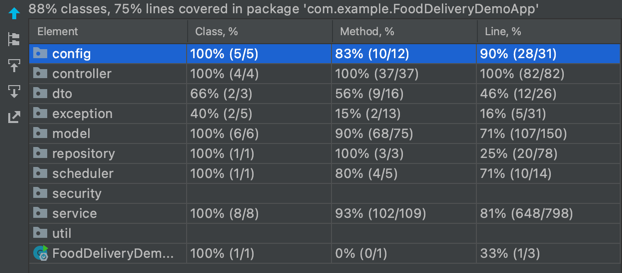
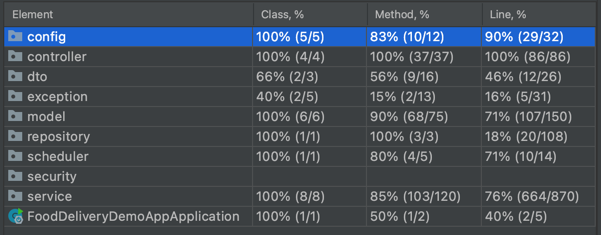
some fixes

diff --git a/src/main/java/com/example/FoodDeliveryDemoApp/service/weatherData/WeatherDataServiceImpl.java b/src/main/java/com/example/FoodDeliveryDemoApp/service/weatherData/WeatherDataServiceImpl.java
@@ -199,26 +199,52 @@ public class WeatherDataServiceImpl implements WeatherDataService {
         }
 
         if (previousWeatherData.isEmpty()) {
-            return nextWeatherData.get();
+            WeatherData nextWeatherD = nextWeatherData.get();
+            checkDurationBetween(dt, nextWeatherD.getTimestamp());
+            return nextWeatherD;
         } else if (nextWeatherData.isEmpty()) {
-            return previousWeatherData.get();
+            WeatherData previousWeatherD = previousWeatherData.get();
+            checkDurationBetween(dt, previousWeatherD.getTimestamp());
+            return previousWeatherD;
         } else {
             Instant previousTimestamp = previousWeatherData.get().getTimestamp();
             Instant nextTimestamp = nextWeatherData.get().getTimestamp();
 
             if (isDurationTooFar(Duration.between(previousTimestamp, dt))) {
                 throw new CustomBadRequestException(
-                        String.format("Weather data with closest datetime to given datetime is too far: %s",
-                                Duration.between(previousTimestamp, dt)));
+                        String.format("Weather data with closest datetime to given datetime is too far: %s (in hours)",
+                                Duration.between(previousTimestamp, dt).toHours()));
             }
             if (isDurationTooFar(Duration.between(nextTimestamp, dt))) {
                 throw new CustomBadRequestException(
-                        String.format("Weather data with closest datetime to given datetime is too far: %s",
-                                Duration.between(nextTimestamp, dt)));
+                        String.format("Weather data with closest datetime to given datetime is too far: %s (in hours)",
+                                Duration.between(nextTimestamp, dt).toHours()));
             }
             return Duration.between(previousTimestamp, dt).compareTo(Duration.between(nextTimestamp, dt)) <= 0
                     ? previousWeatherData.get()
                     : nextWeatherData.get();
+        }
+    }
+
+    /**
+     * Checks the duration between two timestamps and returns the second timestamp if the difference
+     * between them is less than one hour
+     *
+     * @param timestamp1 the first timestamp
+     * @param timestamp2 the second timestamp
+     * @return the second timestamp if the duration between them is less than one hour
+     * @throws CustomBadRequestException if the duration between the timestamps is greater than or equal to one hour
+     * and provides an error message with the duration between them
+     */
+    @SuppressWarnings("UnusedReturnValue")
+    private Instant checkDurationBetween(Instant timestamp1, Instant timestamp2) {
+        Duration duration = Duration.between(timestamp1, timestamp2);
+        if (duration.compareTo(Duration.ofHours(1)) < 0) {
+            return timestamp2;
+        } else {
+            throw new CustomBadRequestException(
+                    String.format("Weather data with closest datetime to given datetime is too far: %s (in hours)",
+                            Duration.between(timestamp1, timestamp2).toHours()));
         }
     }
 

diff --git a/src/main/java/com/example/FoodDeliveryDemoApp/repository/rules/ExtraFeeAirTemperatureRuleRepository.java b/src/main/java/com/example/FoodDeliveryDemoApp/repository/rules/ExtraFeeAirTemperatureRuleRepository.java
@@ -15,6 +15,15 @@ public interface ExtraFeeAirTemperatureRuleRepository extends JpaRepository<Extr
             "AND w.endAirTemperatureRange >= :startTemperatureRange")
     Long countOverlappingRanges(Double startTemperatureRange, Double endTemperatureRange);
 
+    @Query("SELECT COUNT(w) FROM ExtraFeeAirTemperatureRule w " +
+            "WHERE (" +
+            "(w.startAirTemperatureRange <= :startTemperatureRange " +
+            "AND w.endAirTemperatureRange >= :endTemperatureRange) " +
+            "OR " +
+            "(w.startAirTemperatureRange >= :startTemperatureRange " +
+            "AND w.endAirTemperatureRange <= :endTemperatureRange))")
+    Long countInsideRange(Double startTemperatureRange, Double endTemperatureRange);
+
     Optional<ExtraFeeAirTemperatureRule>
         findByStartAirTemperatureRangeLessThanEqualAndEndAirTemperatureRangeGreaterThanEqual
             (Double temperature, Double temperature2);

diff --git a/src/main/java/com/example/FoodDeliveryDemoApp/service/feeRule/regionalBaseFee/RegionalBaseFeeRuleServiceImpl.java b/src/main/java/com/example/FoodDeliveryDemoApp/service/feeRule/regionalBaseFee/RegionalBaseFeeRuleServiceImpl.java
@@ -246,7 +246,7 @@ public class RegionalBaseFeeRuleServiceImpl implements RegionalBaseFeeRuleServic
      * @throws JAXBException if there is an error parsing the XML request body
      */
     public RegionalBaseFeeRule addBaseFeeRule(String city, Long wmoCode, String vehicleType, Double fee)
-            throws JAXBException {
+            throws JAXBException, CustomBadRequestException {
 
         validateRequiredInputs(city, wmoCode, vehicleType, fee);
 
@@ -268,6 +268,7 @@ public class RegionalBaseFeeRuleServiceImpl implements RegionalBaseFeeRuleServic
         vehicleType = vehicleType.trim().toLowerCase(Locale.ROOT);
 
         validateInputs(city, wmoCode, vehicleType, fee, cityNamesAndCodes);
+        city = city.toLowerCase(Locale.ROOT);
         checkExistingVehicleTypesForCity(city, vehicleType);
 
         RegionalBaseFeeRule rule = new RegionalBaseFeeRule();

diff --git a/src/main/java/com/example/FoodDeliveryDemoApp/repository/rules/ExtraFeeWindSpeedRuleRepository.java b/src/main/java/com/example/FoodDeliveryDemoApp/repository/rules/ExtraFeeWindSpeedRuleRepository.java
@@ -15,6 +15,15 @@ public interface ExtraFeeWindSpeedRuleRepository extends JpaRepository<ExtraFeeW
             "AND w.endWindSpeedRange >= :startWindSpeedRange")
     Long countOverlappingRanges(Double startWindSpeedRange, Double endWindSpeedRange);
 
+    @Query("SELECT COUNT(w) FROM ExtraFeeWindSpeedRule w " +
+            "WHERE (" +
+            "(w.startWindSpeedRange <= :startWindSpeedRange " +
+            "AND w.endWindSpeedRange >= :endWindSpeedRange) " +
+            "OR " +
+            "(w.startWindSpeedRange >= :startWindSpeedRange " +
+            "AND w.endWindSpeedRange <= :endWindSpeedRange))")
+    Long countInsideRange(Double startWindSpeedRange, Double endWindSpeedRange);
+
     Optional<ExtraFeeWindSpeedRule>
         findByStartWindSpeedRangeLessThanEqualAndEndWindSpeedRangeGreaterThanEqual(Double windSpeed, Double windSpeed2);
 

diff --git a/src/main/java/com/example/FoodDeliveryDemoApp/controller/FeeRuleController.java b/src/main/java/com/example/FoodDeliveryDemoApp/controller/FeeRuleController.java
@@ -71,7 +71,7 @@ ________________________________________________________________________________
      * @throws JAXBException if there is an error parsing the XML request body
      */
     @PostMapping(path="/fee/base", produces = MediaType.APPLICATION_JSON_VALUE)
-    @Operation(summary = "Add regional base fee rule. You can do it with city name or wmo code.")
+    @Operation(summary = "Add regional base fee rule. You can do it with city name or wmo code. By default all weather fees apply to new vehicle types.")
     public ResponseEntity<RegionalBaseFeeRule> addRegionalBaseFeeRule(
             @Parameter(name = "city", description = "City name", example = "")
             @RequestParam(required = false) String city,

diff --git a/src/main/java/com/example/FoodDeliveryDemoApp/service/feeRule/extraFee/airTemperatureRule/ExtraFeeAirTemperatureRuleServiceImpl.java b/src/main/java/com/example/FoodDeliveryDemoApp/service/feeRule/extraFee/airTemperatureRule/ExtraFeeAirTemperatureRuleServiceImpl.java
@@ -125,6 +125,10 @@ public class ExtraFeeAirTemperatureRuleServiceImpl implements ExtraFeeAirTempera
         if (overlappingRanges > 0) {
             throw new CustomBadRequestException("Provided air temperature range is overlapping with an existing range in the database");
         }
+        Long overlappingInsideRanges = airTemperatureRuleRepository.countInsideRange(startTemperatureRange, endTemperatureRange);
+        if (overlappingInsideRanges > 0) {
+            throw new CustomBadRequestException("Provided air temperature range is overlapping with an existing range in the database");
+        }
     }
 
     /**

diff --git a/src/main/java/com/example/FoodDeliveryDemoApp/service/feeRule/extraFee/windSpeedRule/ExtraFeeWindSpeedRuleServiceImpl.java b/src/main/java/com/example/FoodDeliveryDemoApp/service/feeRule/extraFee/windSpeedRule/ExtraFeeWindSpeedRuleServiceImpl.java
@@ -139,6 +139,12 @@ public class ExtraFeeWindSpeedRuleServiceImpl implements ExtraFeeWindSpeedRuleSe
             throw new CustomBadRequestException(
                     "Provided wind speed range is overlapping with an existing range in the database");
         }
+
+        Long overlappingInsideRanges = windSpeedRuleRepository.countInsideRange(startWindSpeedRange, endWindSpeedRange);
+        if (overlappingInsideRanges > 0) {
+            throw new CustomBadRequestException(
+                    "Provided wind speed range is overlapping with an existing range in the database");
+        }
     }
 
     /**

diff --git a/src/main/java/com/example/FoodDeliveryDemoApp/service/deliveryFee/DeliveryFeeServiceImpl.java b/src/main/java/com/example/FoodDeliveryDemoApp/service/deliveryFee/DeliveryFeeServiceImpl.java
@@ -160,6 +160,12 @@ public class DeliveryFeeServiceImpl implements DeliveryFeeService {
 
         Function<WeatherData, Double> feeFunction = vehicleTypeToFeeFunction.get(vehicleType);
 
+        if (feeFunction == null) {
+            feeFunction = weatherData1 -> calculateAirTemperatureFee(weatherData.getAirTemperature())
+                    + calculateWindSpeedFee(weatherData.getWindSpeed())
+                    + calculateWeatherPhenomenonFee(weatherData.getWeatherPhenomenon());
+        }
+
         return feeFunction.apply(weatherData);
     }
 
